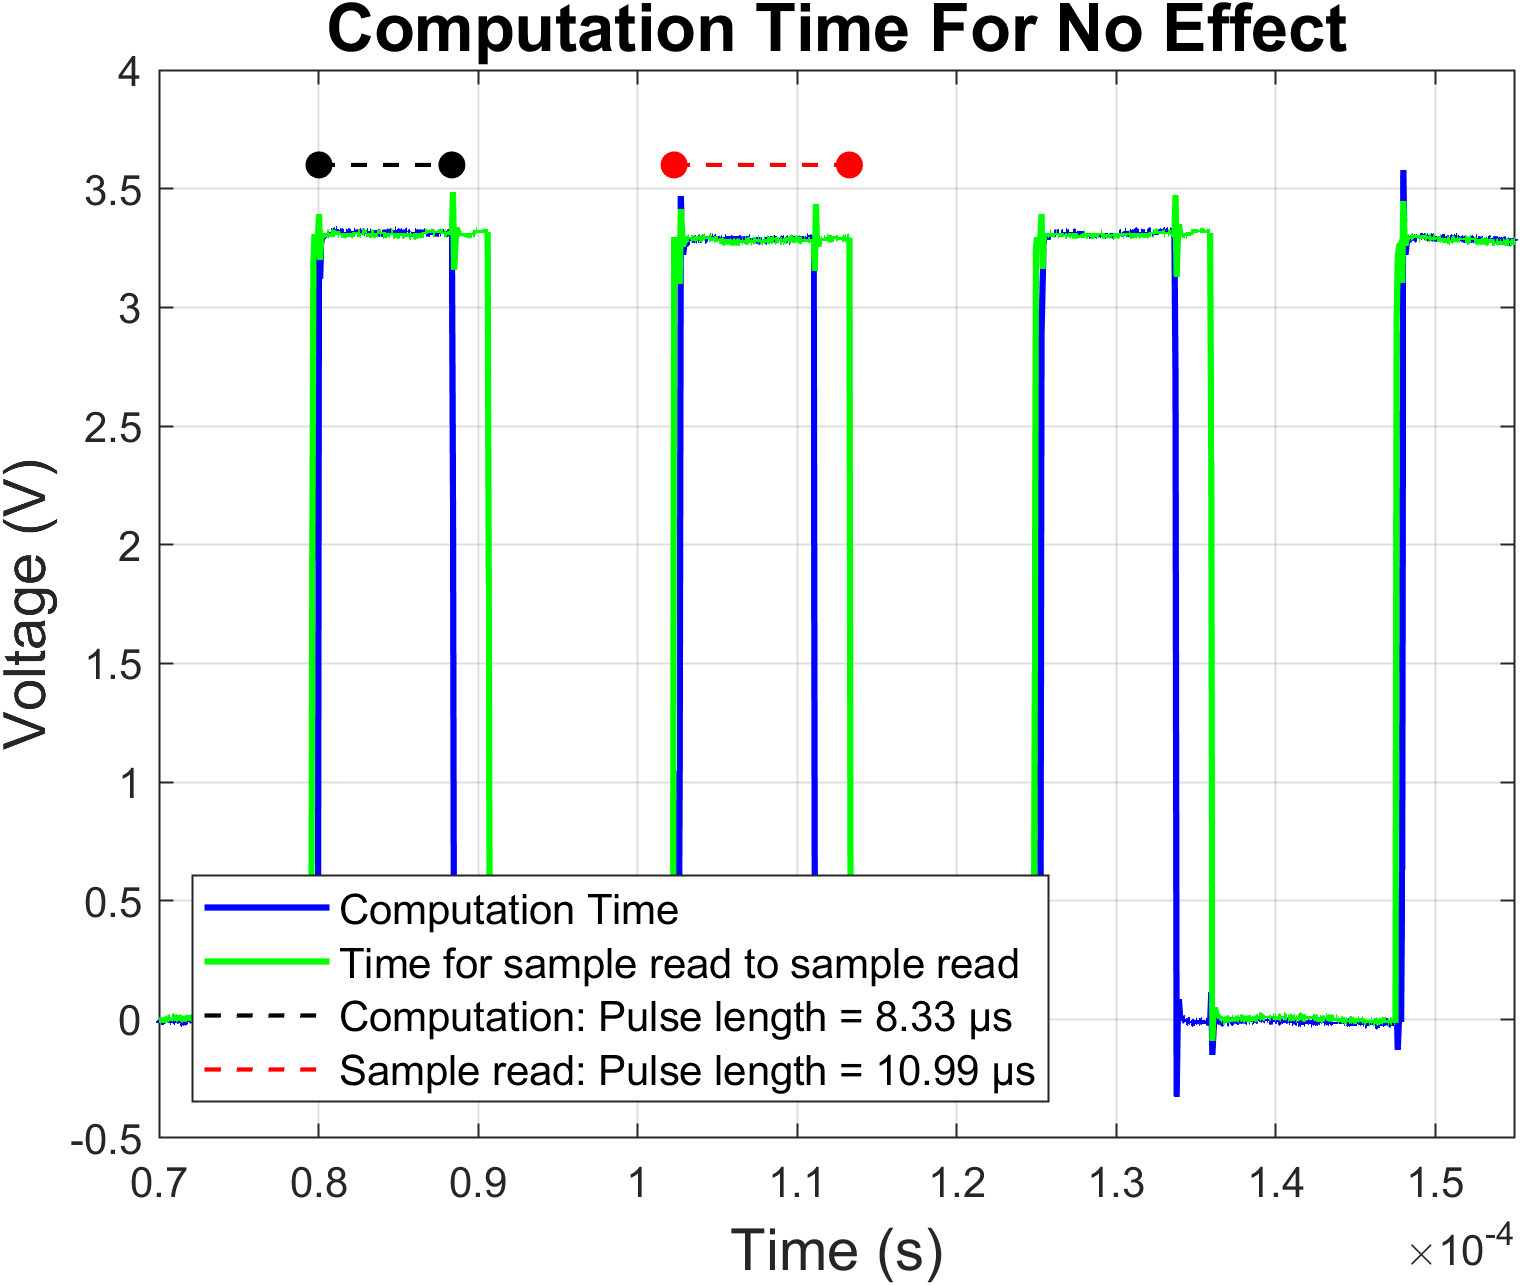
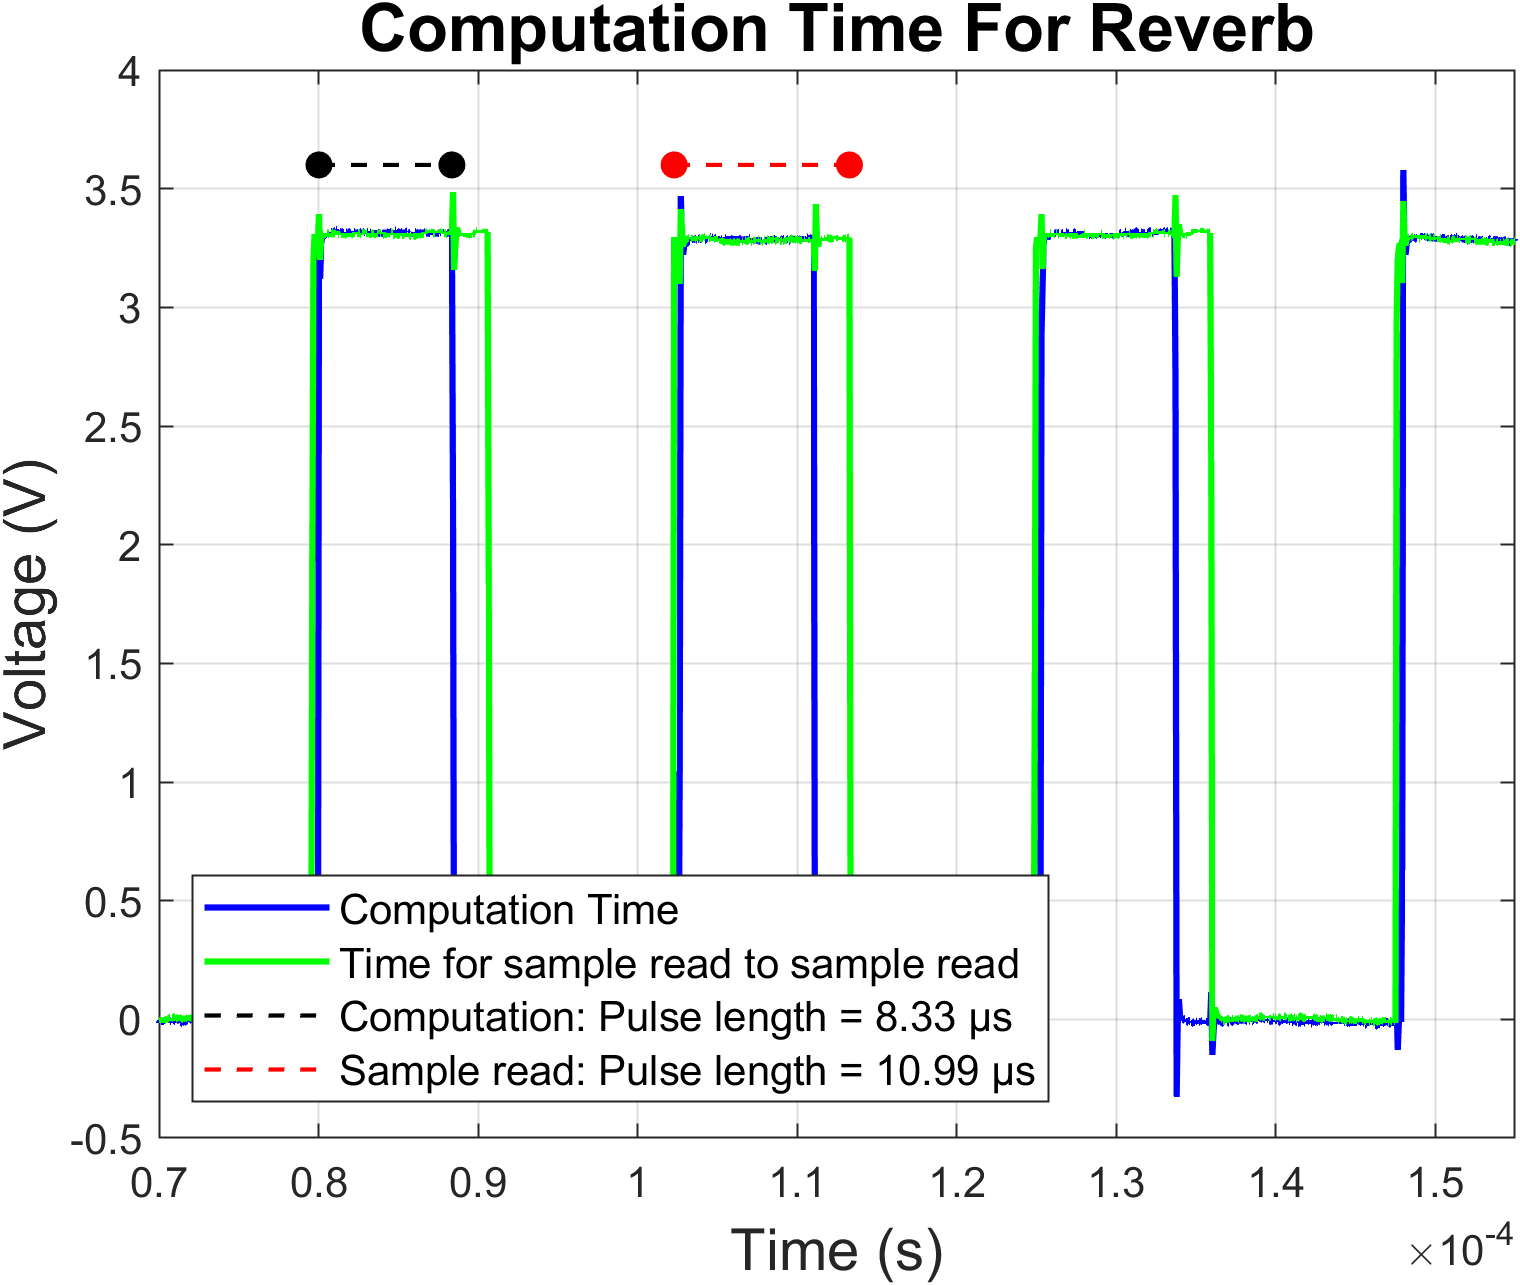
we try again pls

Changed region(s): [[0.2164, 0.0, 0.8967, 0.0623]]

diff --git a/gitfigures/ImplementationTest/sampling_test.m b/gitfigures/ImplementationTest/sampling_test.m
@@ -1,7 +1,7 @@
 clc; close all; clear;
 
 % Read data from CSV file
-data = readmatrix('allfx_computationtime.csv');  % Replace with your actual file name
+data = readmatrix('wah_computationtime.csv');  % Replace with your actual file name
 time = data(:, 1);       % Time (seconds)
 voltage1 = data(:, 3);   % Signal 1
 voltage2 = data(:, 2);   % Signal 2
@@ -81,11 +81,11 @@ legend([h1, h2,hPulse1, hPulse2],'Computation Time', 'Time for sample read to sa
 xlim([7e-5 15.5e-5]);
 xlabel('Time (s)', 'FontSize', 14);
 ylabel('Voltage (V)', 'FontSize', 14);
-title('Computation Time For No Effect', 'FontSize', 16);
+title('Computation Time For Wah', 'FontSize', 16);
 grid on;
 
 saveFolder = fullfile(pwd,'..','..','gitfigures/ImplementationTest/');
-filePath = fullfile(saveFolder, sprintf('%s.png','ComputationTime_O2ALLFx'));
+filePath = fullfile(saveFolder, sprintf('%s.png','ComputationTime_Wah'));
 exportgraphics(figH, filePath, 'Resolution', 300);
 %filePath = fullfile(saveFolder, sprintf('%s.png','ComputationTime_noFx'));
 %exportgraphics(figJ, filePath, 'Resolution', 300);
